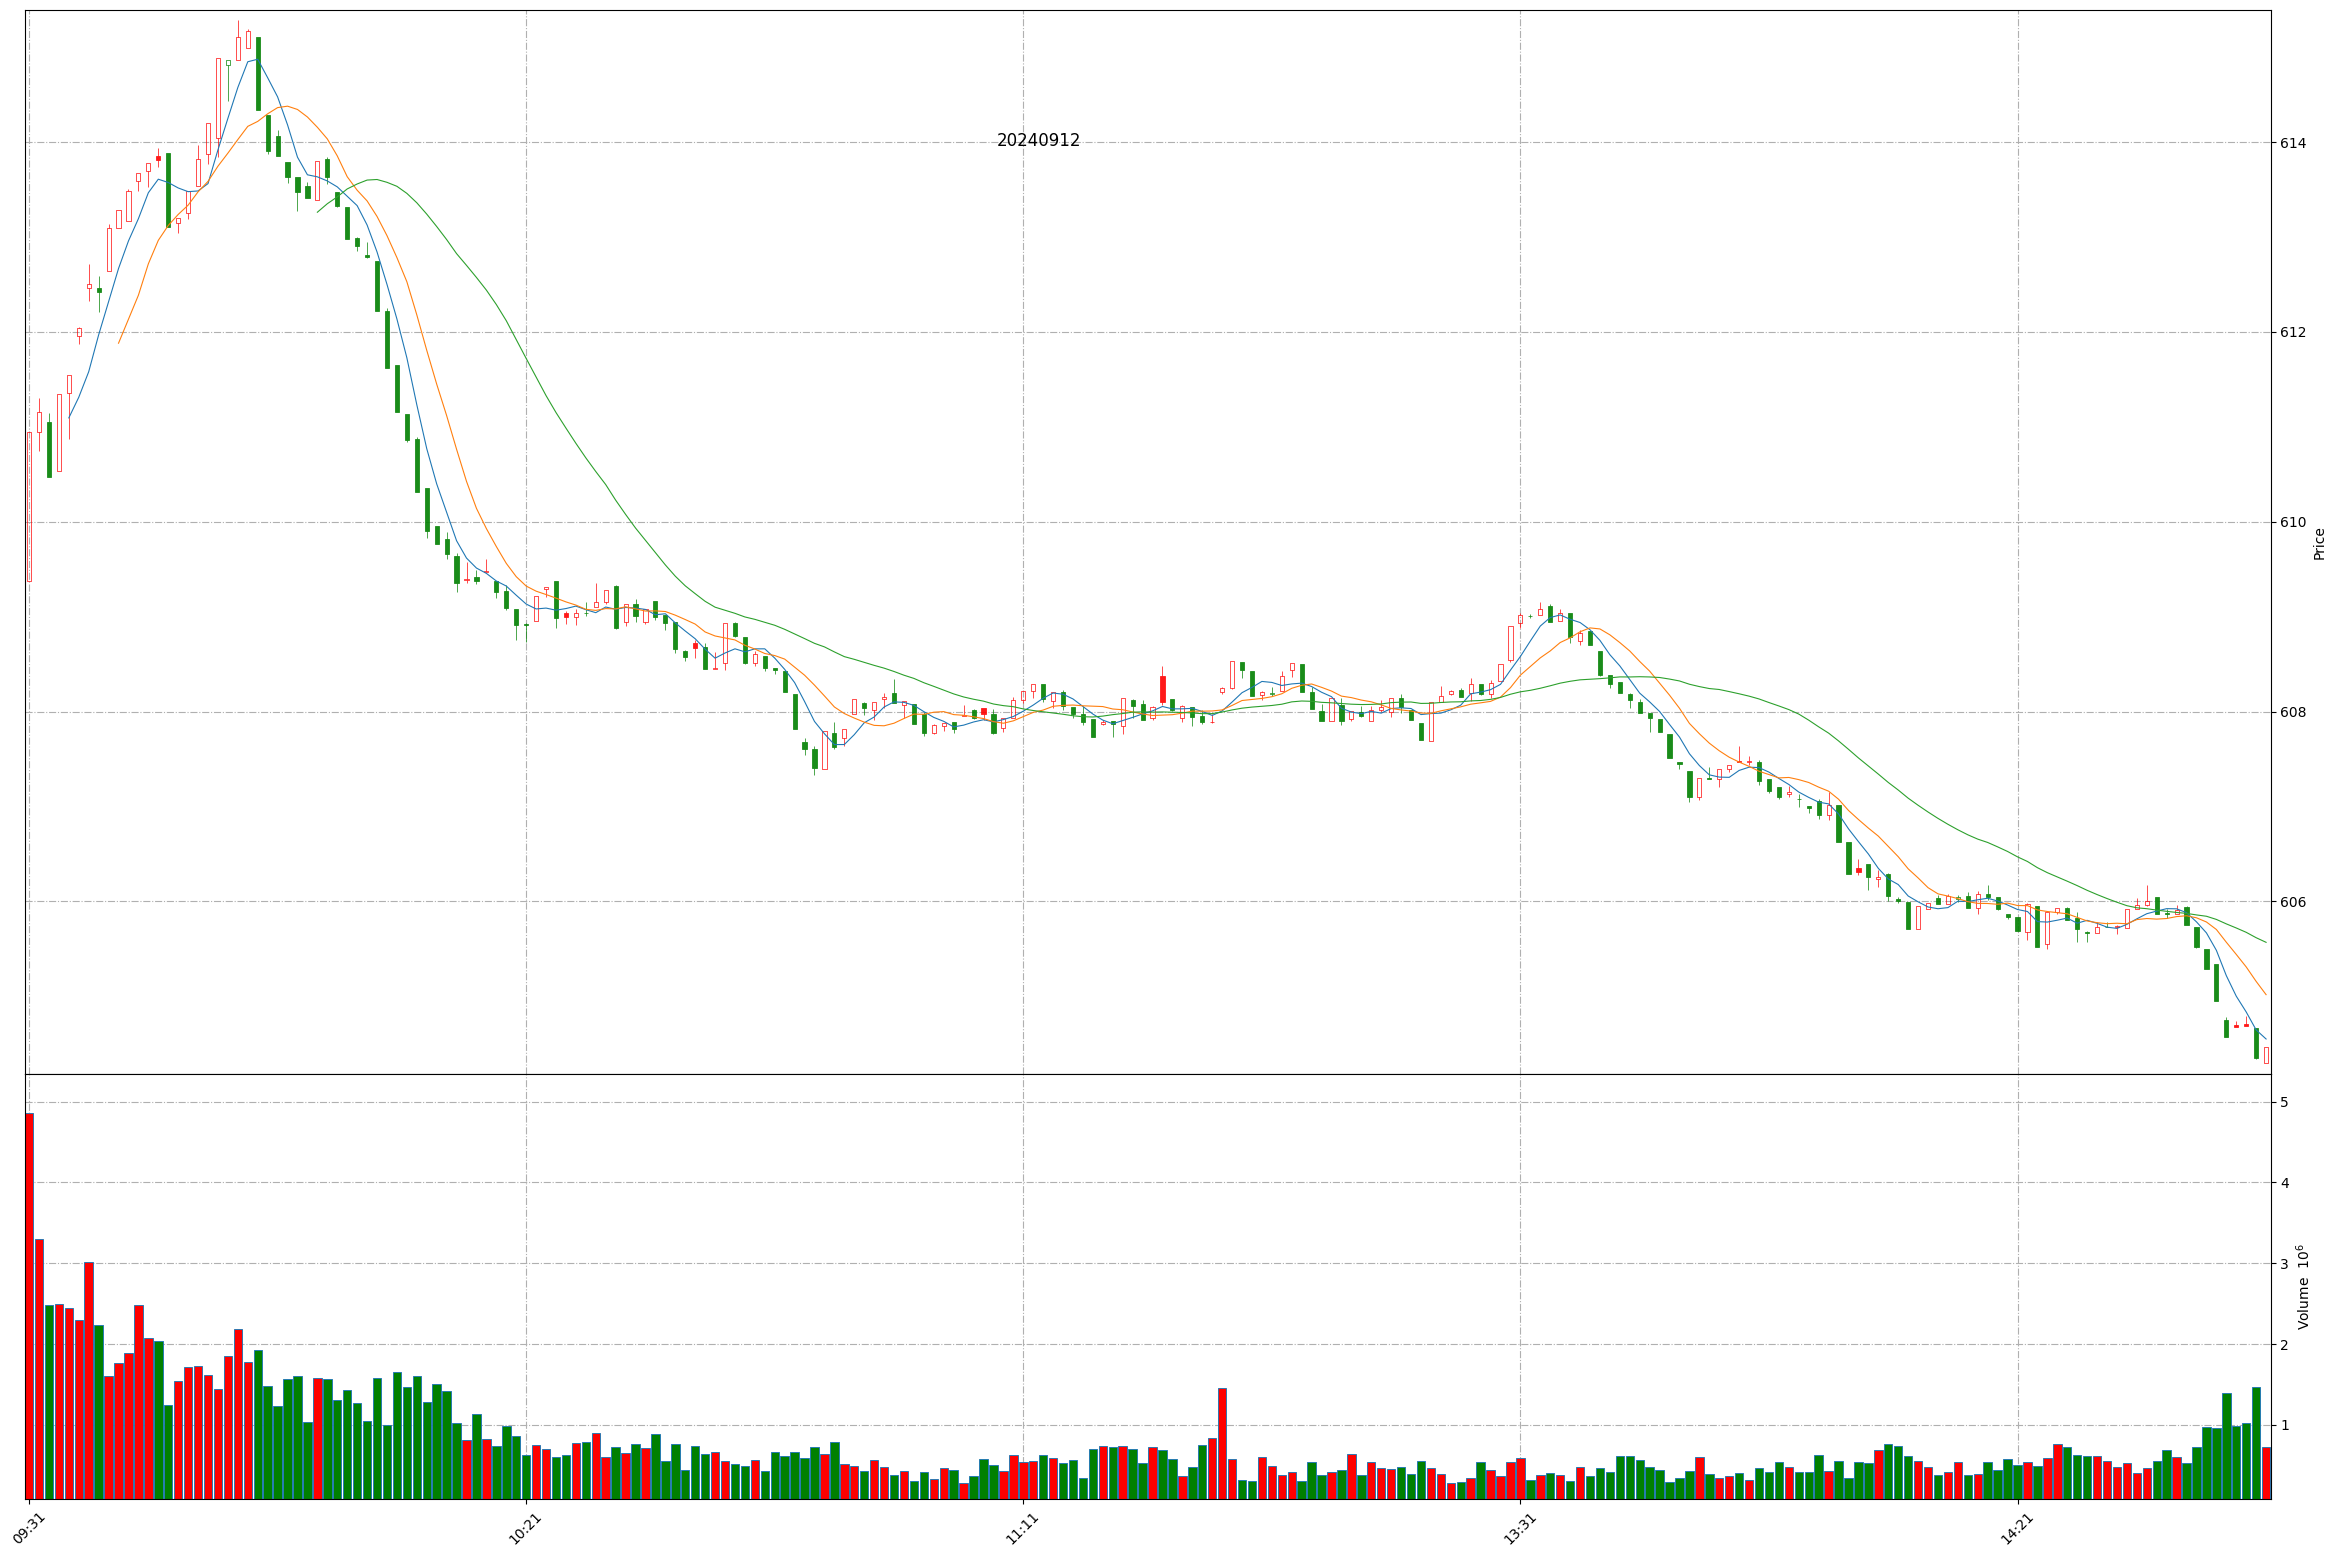
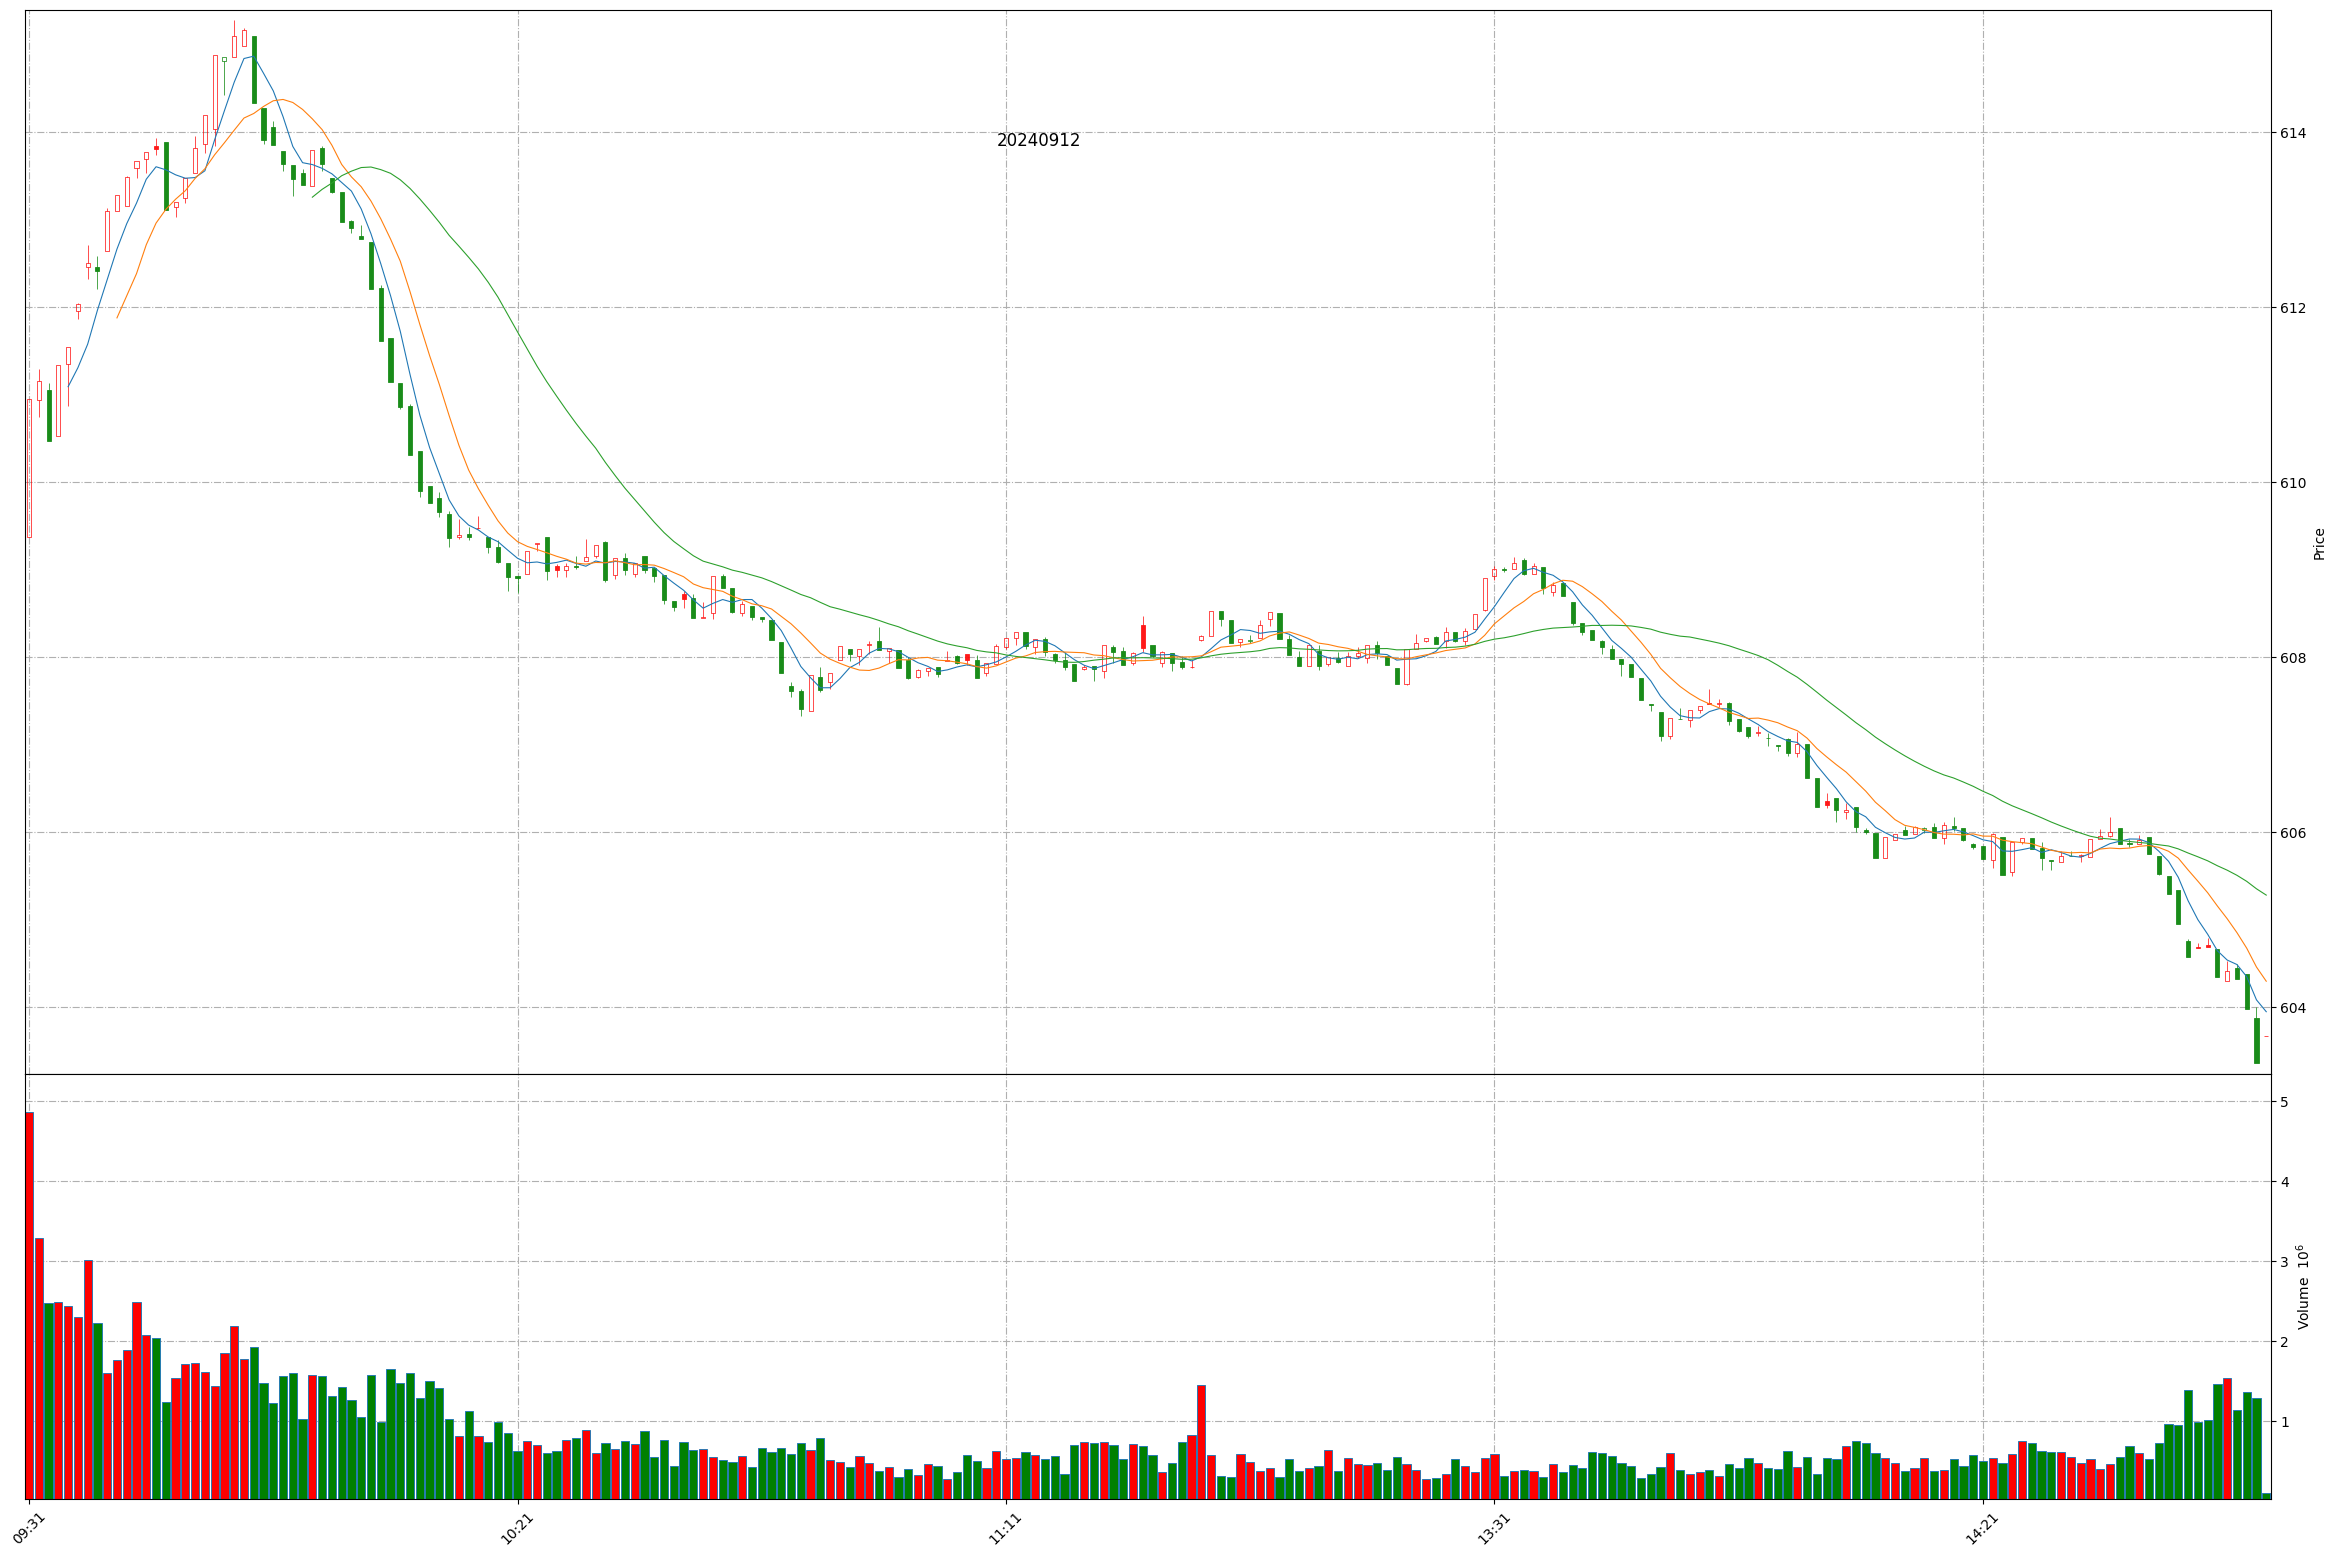
Github action update at 2024-09-12 14:49:23.

Changed region(s): [[0.0, 0.8324, 0.9688, 0.9865], [0.0312, 0.0308, 0.9688, 0.6474], [0.0, 0.2466, 0.0312, 0.2775]]

diff --git a/README.md b/README.md
@@ -1,11 +1,11 @@
 
 # Daily-A-share-market-quotes 每日 A 股指数（5min 更新）- 20240912
 
-### 上证指数 20240912 14:45
+### 上证指数 20240912 14:49
 ![](./fig/2024/9/20240912-sh000001.png)
 
-### 深证成指 20240912 14:45
+### 深证成指 20240912 14:49
 ![](./fig/2024/9/20240912-sz399001.png)
 
-### 北证50 20240912 14:45
+### 北证50 20240912 14:49
 ![](./fig/2024/9/20240912-bj899050.png)
